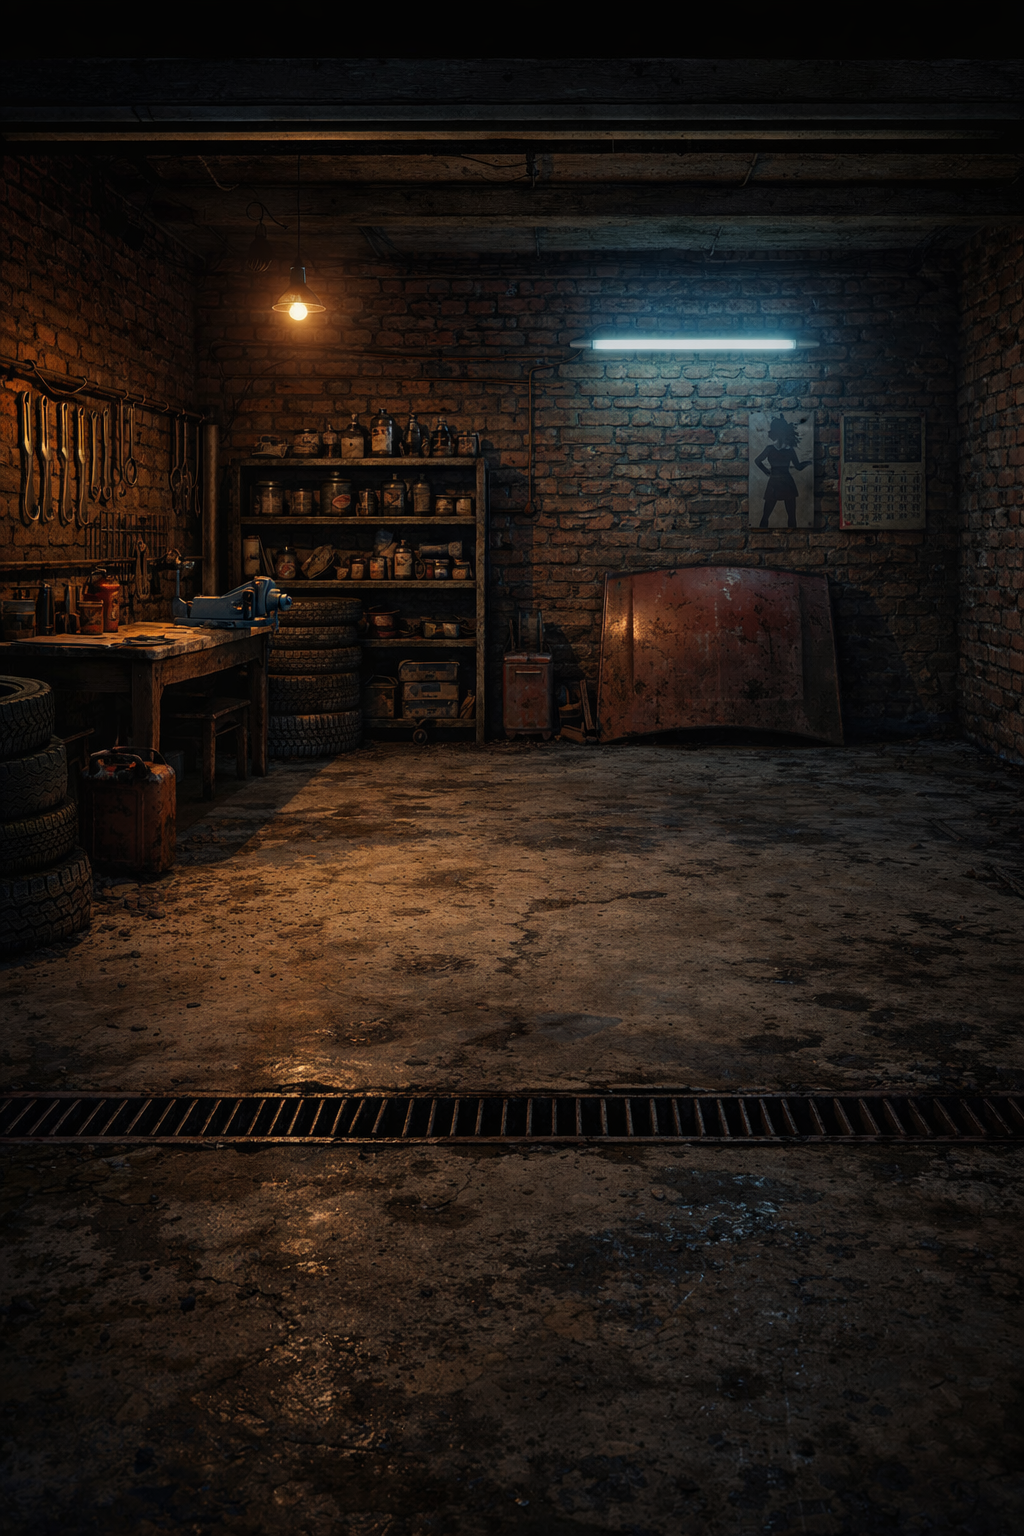
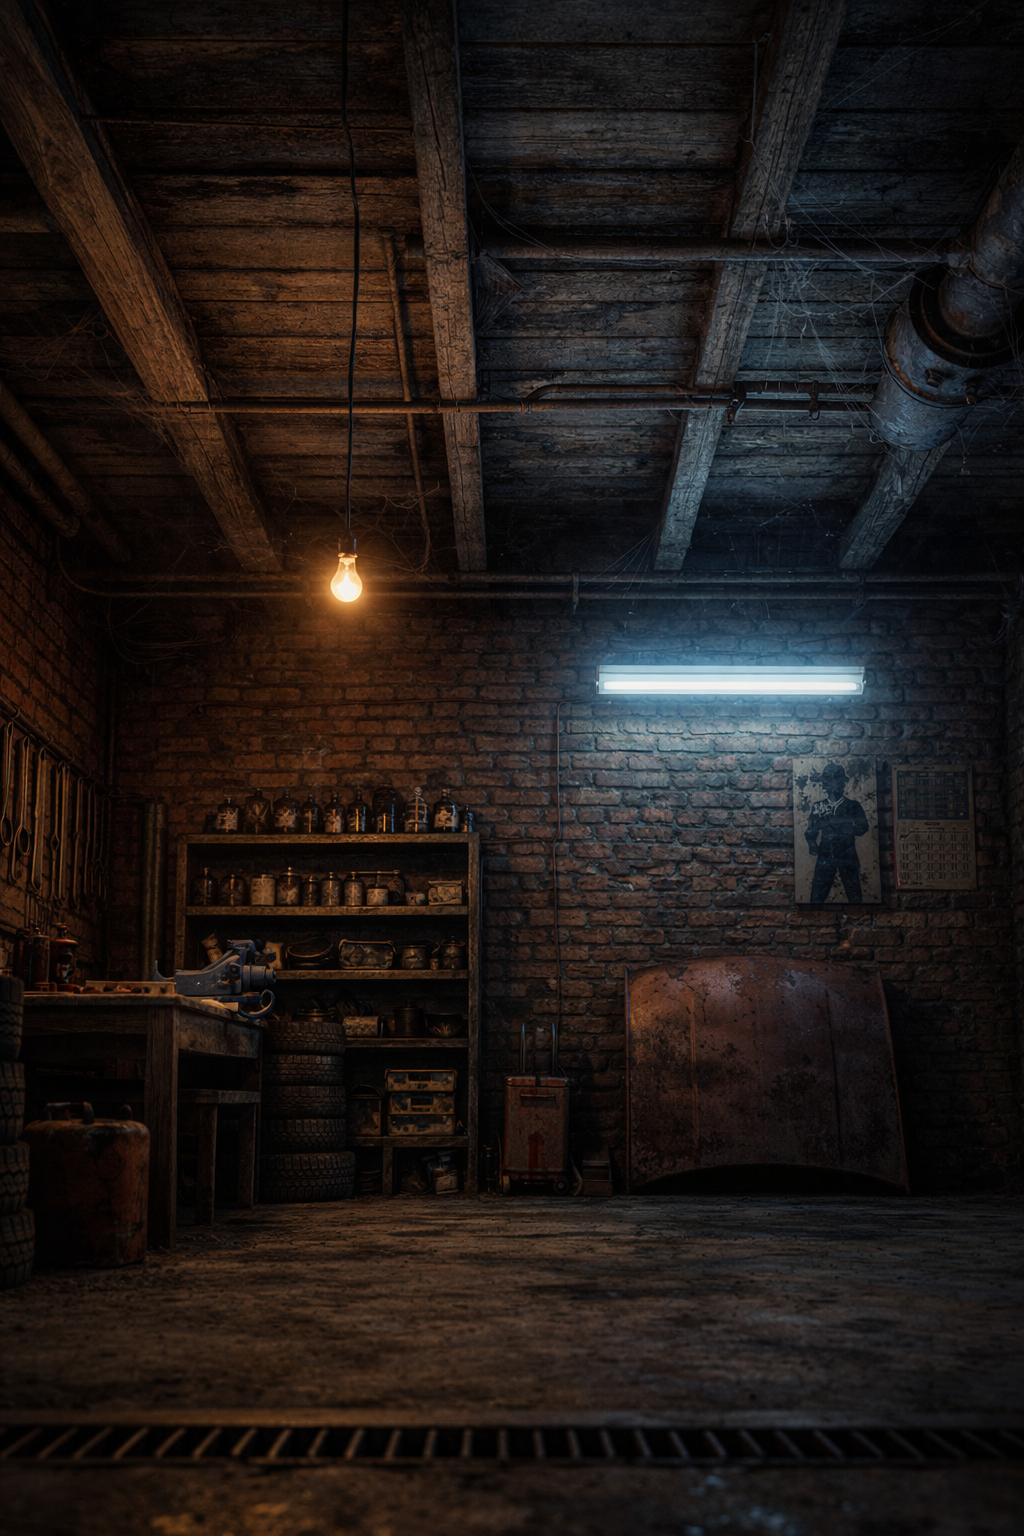
Ходки: the garage room from a low camera — the ceiling, the back wall, little floor
Claude-Session: https://claude.ai/code/session_01XtpZhZabEYUcJEQKQgYpHe

diff --git a/src/client/screens/raids.tsx b/src/client/screens/raids.tsx
@@ -210,7 +210,7 @@ export function RaidAttackScreen({ yard, building }: { yard: string; building: s
       <div className="fit-page fight-page rd-fight">
         <div className="fight-bg" aria-hidden="true">
           {/* eslint-disable-next-line @next/next/no-img-element */}
-          <img key={shake} className={shake ? "rd-hitbg" : ""} src={`${A}/arena-garage.webp`} alt="" draggable={false} />
+          <img key={shake} className={shake ? "rd-hitbg" : ""} src={`${A}/arena-garage2.webp`} alt="" draggable={false} />
         </div>
         <div className="fight-head">
           <Link href={`/clans/raids/${y.id}`} className="back-btn" aria-label="Во двор">‹</Link>
